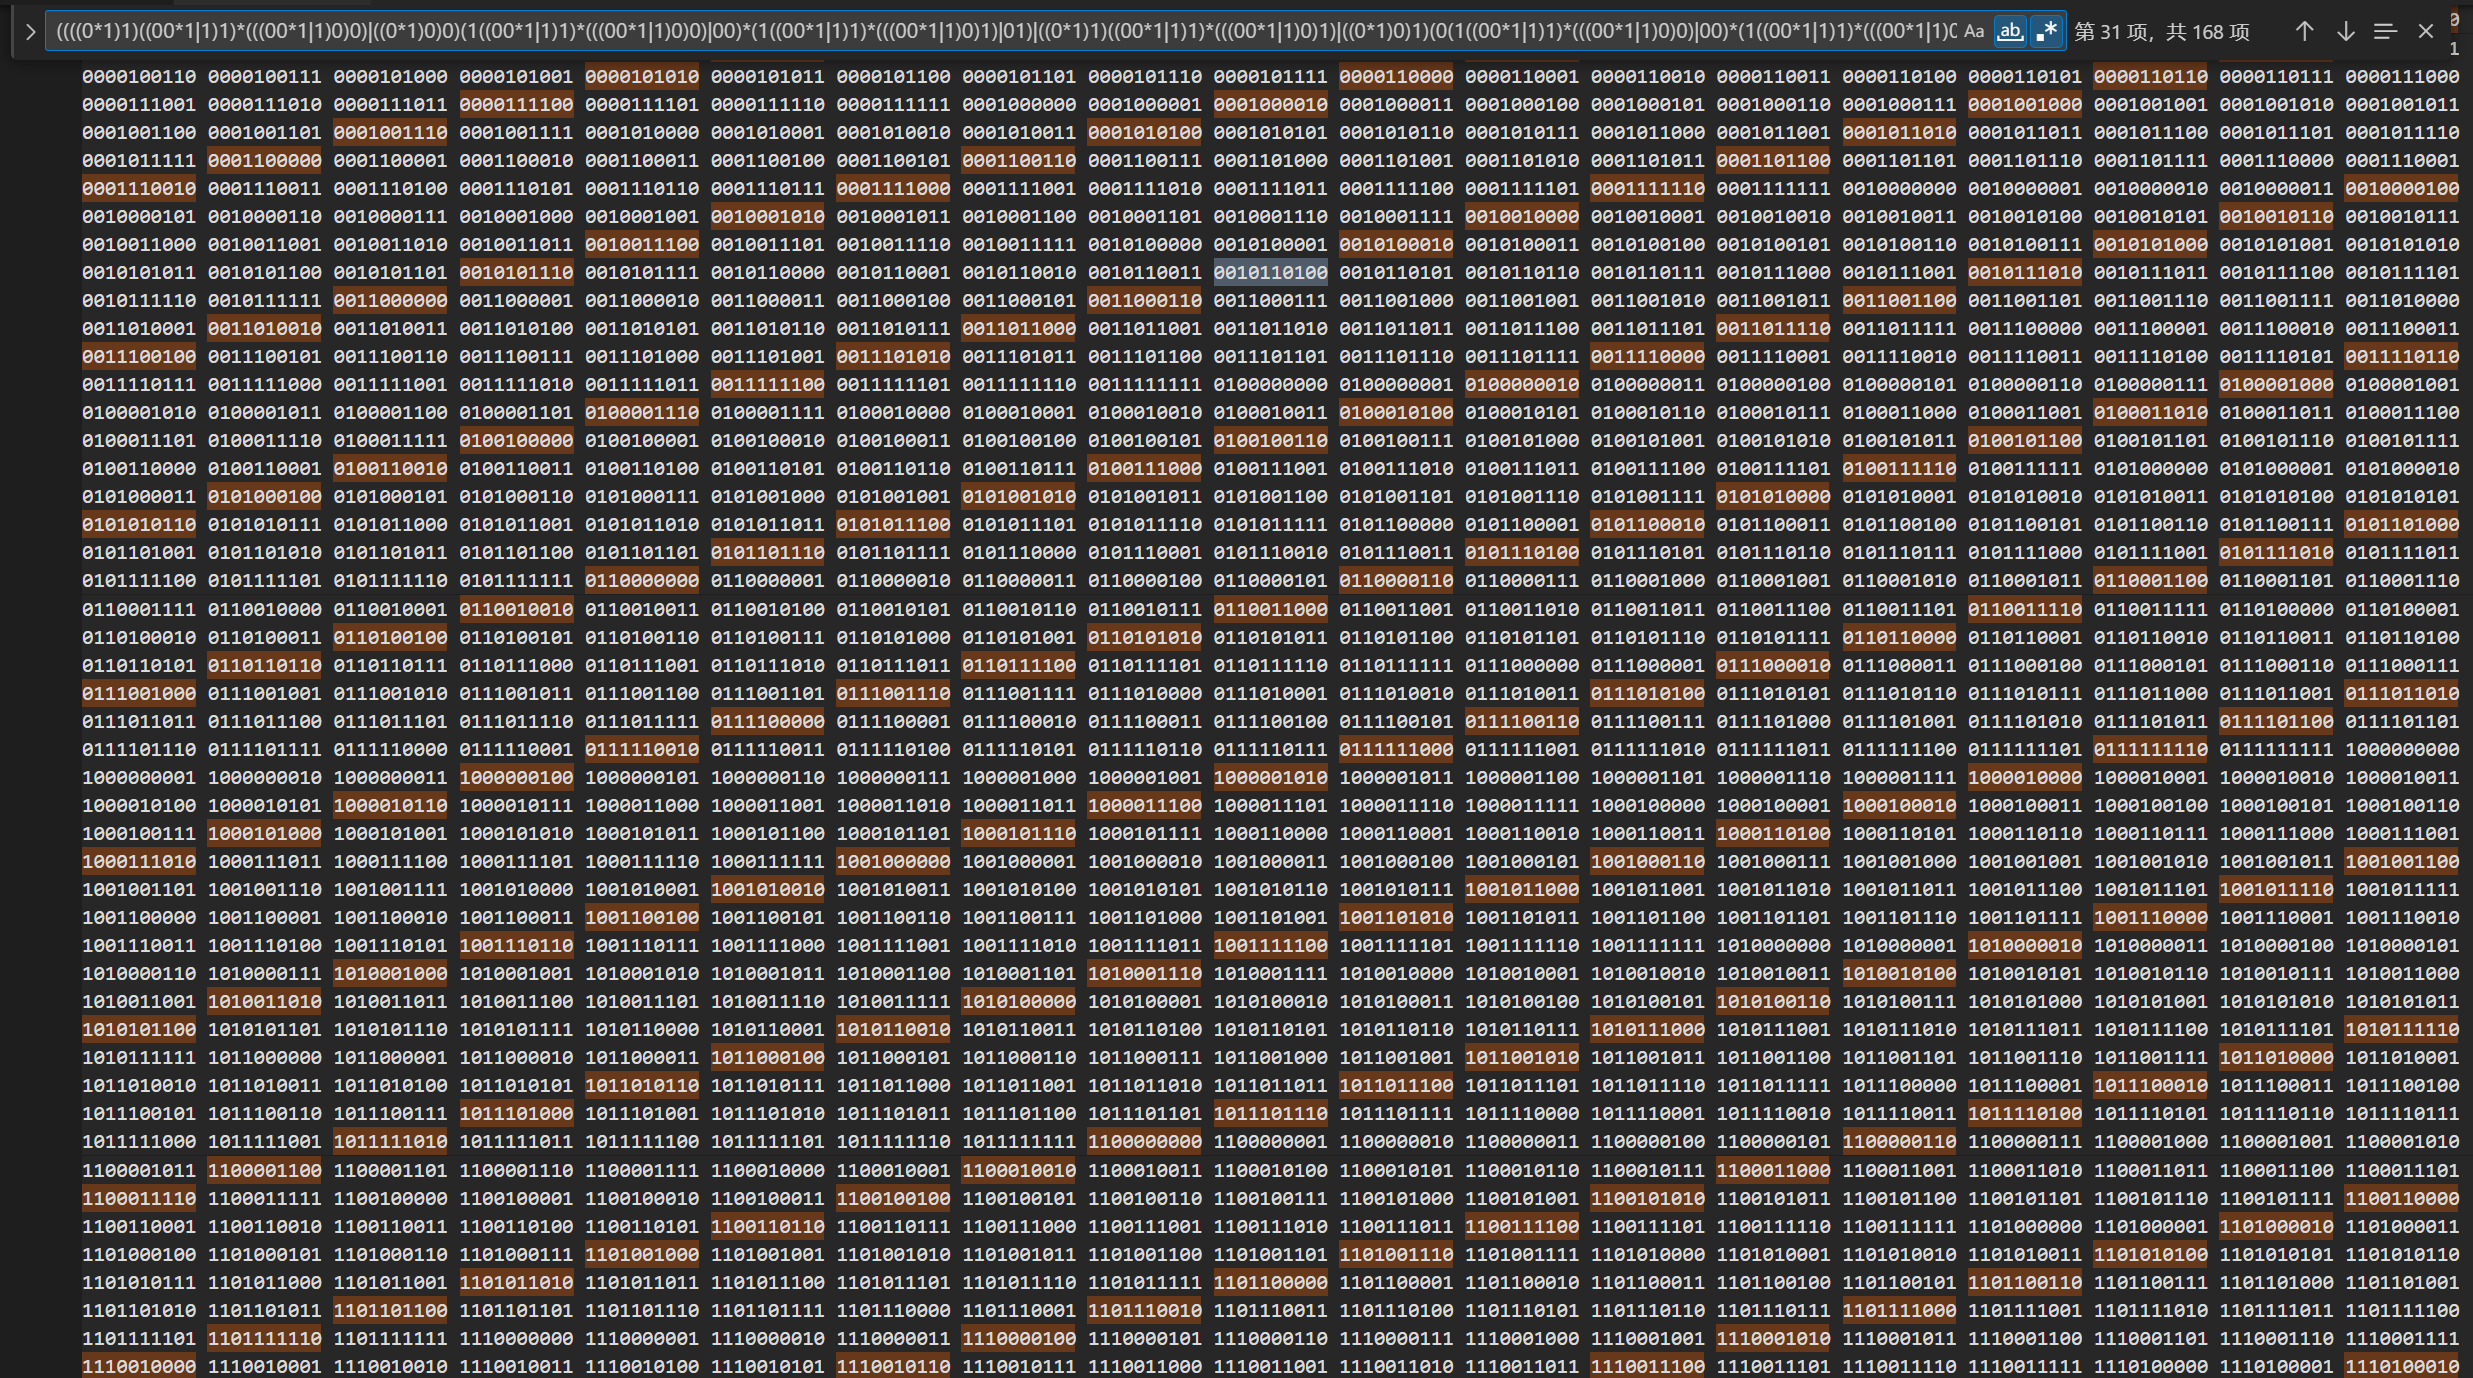
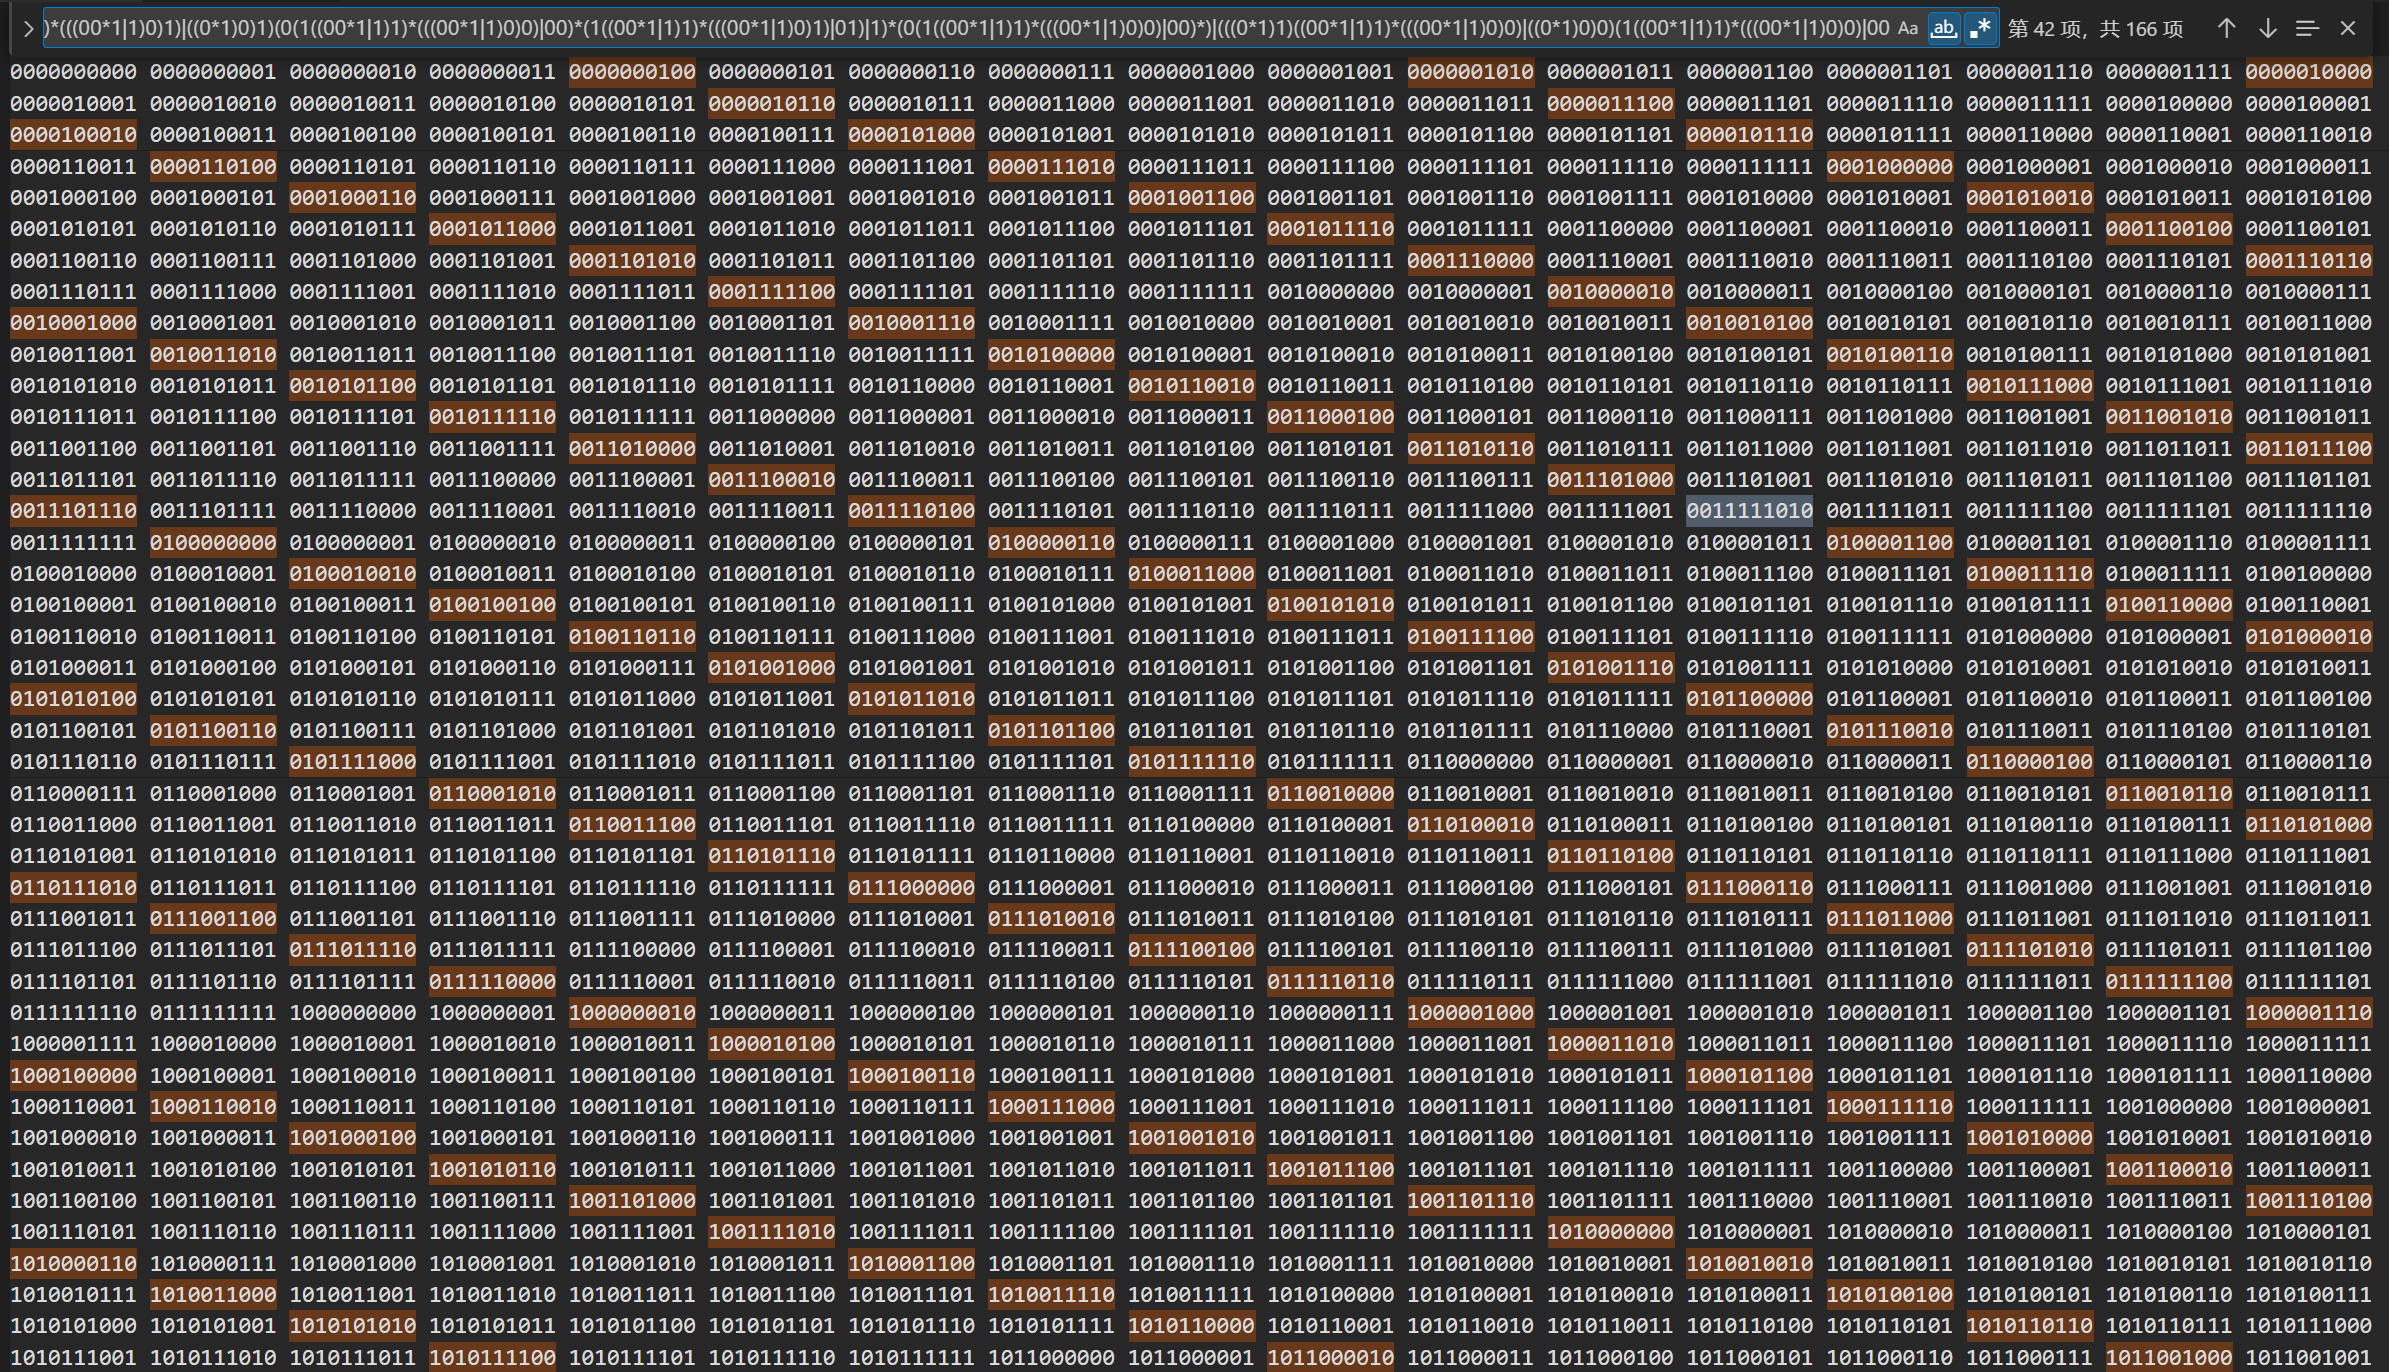
doc: update README

diff --git a/README.md b/README.md
@@ -2,7 +2,7 @@
 
 ---
 
-对于正整数 $N$, 生成可匹配可被 $N$ 整除的数字的二进制表示的正则表达式.
+对于正整数 $N$ 和 $M$, 生成可匹配被 $N$ 整除后余 $M$ 的数字的二进制表示的正则表达式.
 
 ## 编译
 
@@ -13,18 +13,18 @@ make
 ## 运行
 
 ```sh
-make run RUNARGS=[N]
+make run RUNARGS="[N] [M]"
 ```
 
 或
 
 ```sh
-./debug/gen.exe [N]
+./debug/gen.exe [N] [M]
 ```
 
 ## 效果演示
 
-下面展示可被 6 整除的情况:
+下面展示被 6 除余 4 的情况:
 
 ![控制台输出](doc/pic/CLI-effect.png)
 
